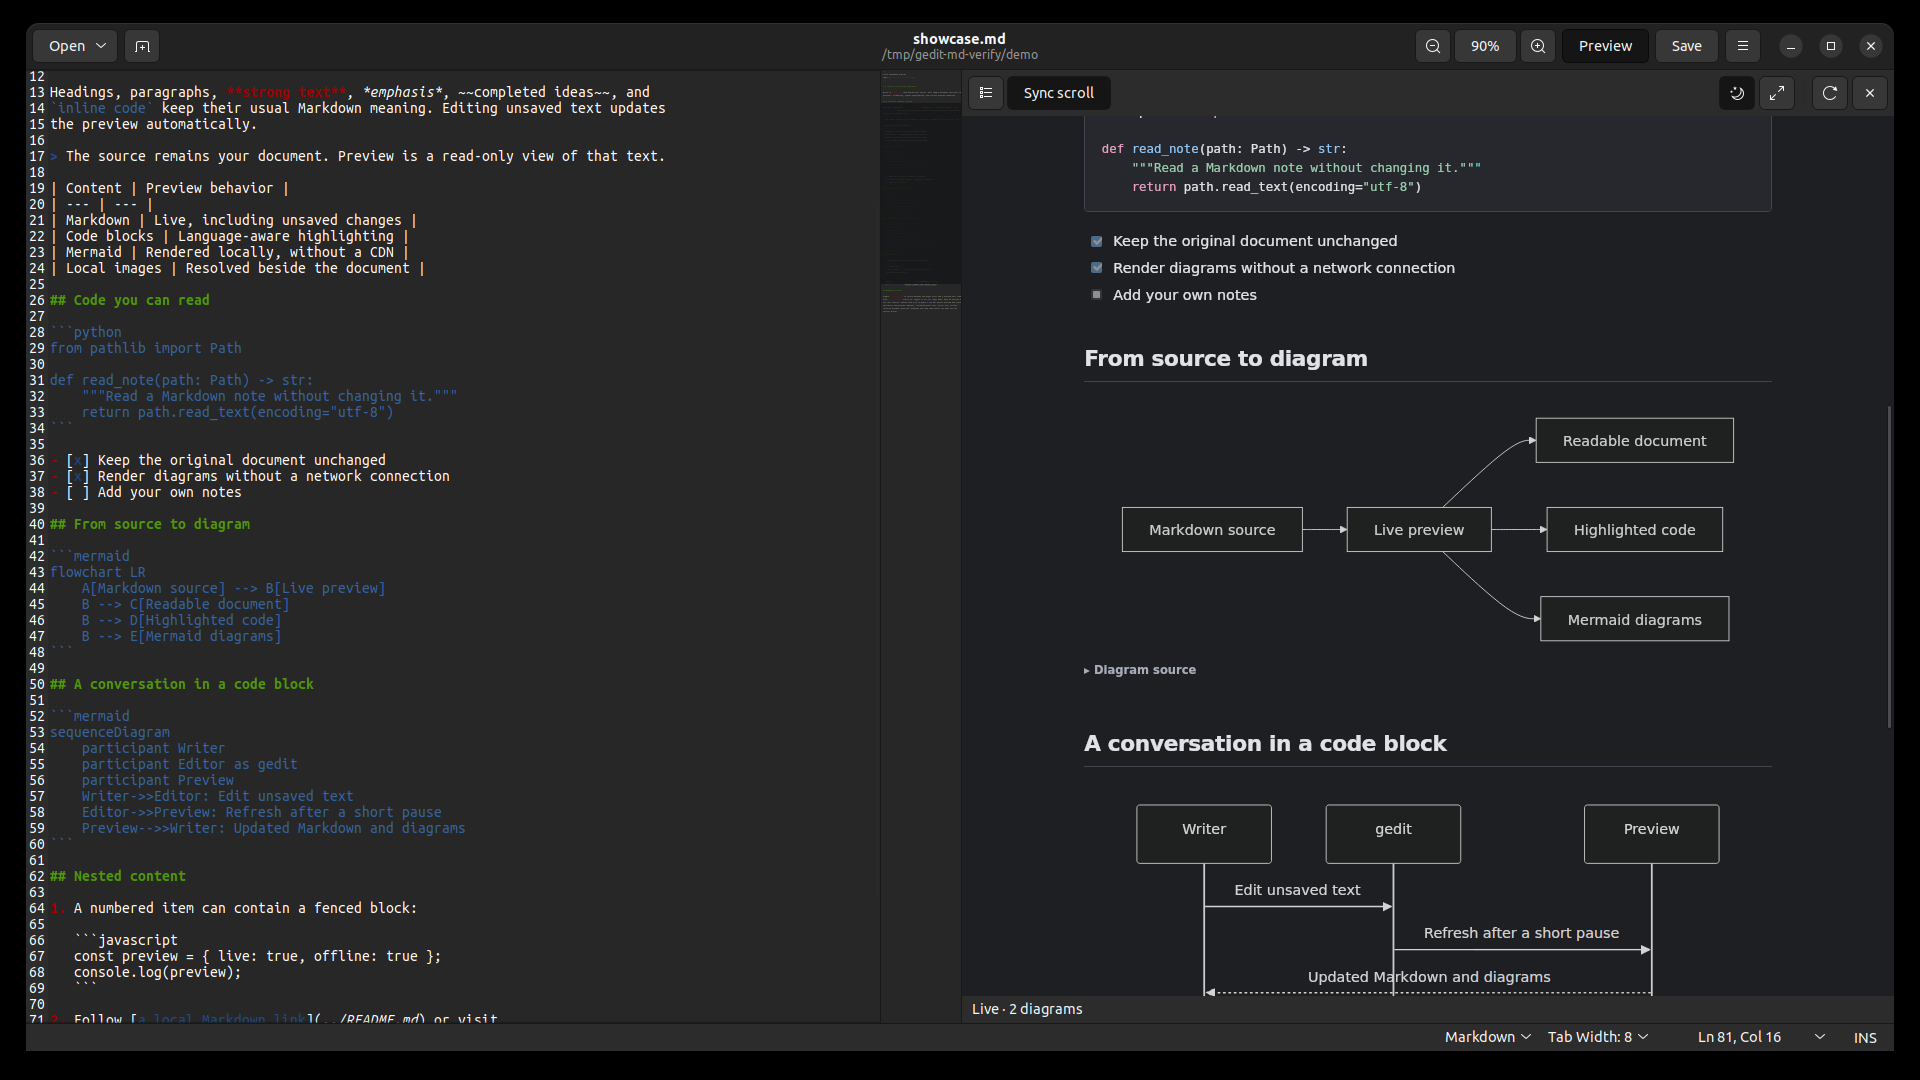
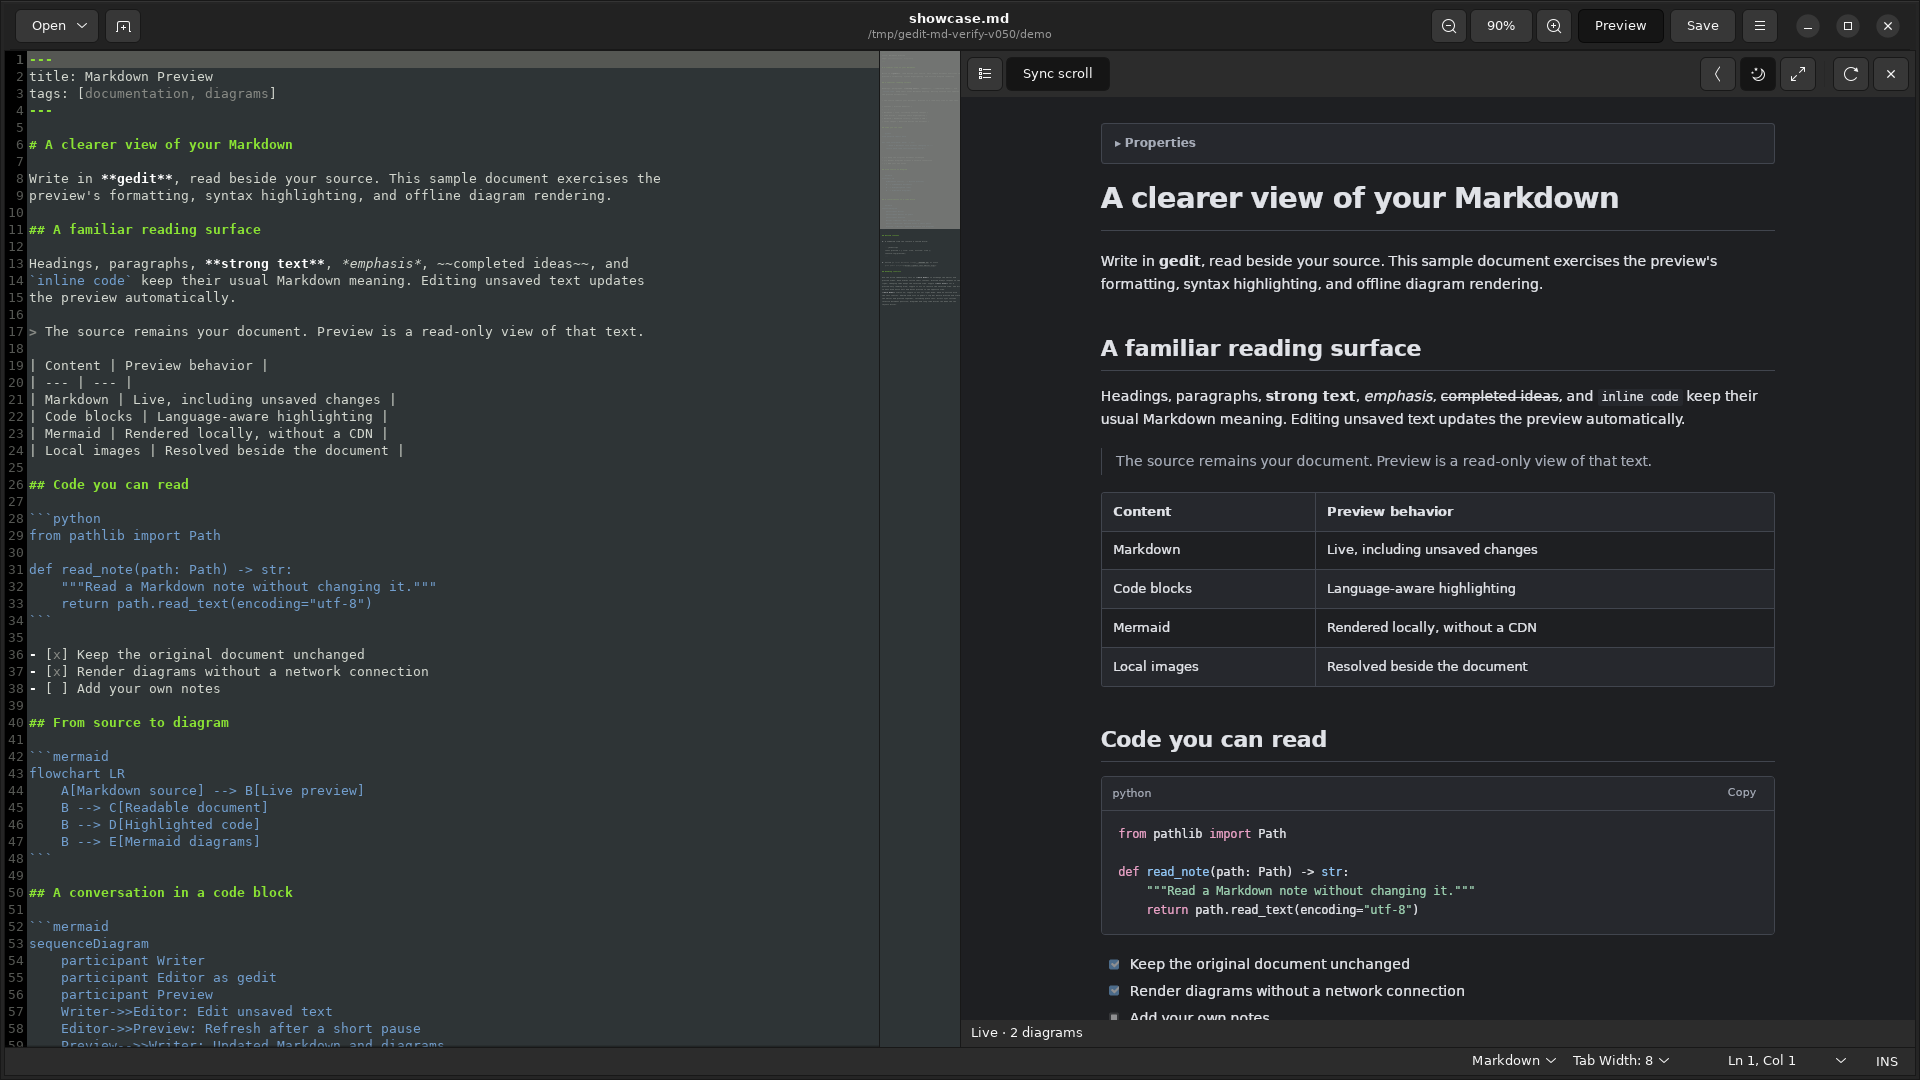
Add preview side switching (v0.5.0)

diff --git a/mdpreview/__init__.py b/mdpreview/__init__.py
@@ -63,7 +63,14 @@ class MarkdownPreviewWindow(GObject.Object, Gedit.WindowActivatable):
         self._editor_zoom_styles: dict[Any, Any] = {}
         self._font_handlers: list[tuple[Any, int]] = []
         self._editor_zoom_pending = 0
-        self._right_position: int | None = None
+        self._editor_width: int | None = None
+        self._split_gap = 0
+        self._split_side = "right"
+        self._layout_pending = 0
+        self._layout_settling = False
+        self._layout_positioned = False
+        self._updating_layout = False
+        self._side_control: Any = None
         self._full_control: Any = None
         self._dark_control: Any = None
         self._pending = 0
@@ -205,6 +212,7 @@ class MarkdownPreviewWindow(GObject.Object, Gedit.WindowActivatable):
     def open_preview(self) -> None:
         if self._box is not None:
             return
+        self._layout = self._split_side = "right"
         try:
             for filename in ("vendor.js", "preview.js", "preview.css"):
                 if not (ASSETS / filename).is_file():
@@ -265,6 +273,8 @@ class MarkdownPreviewWindow(GObject.Object, Gedit.WindowActivatable):
         if self._theme == "light":
             self._dark_control.get_image().set_from_icon_name("weather-clear-symbolic", Gtk.IconSize.MENU)
         toolbar.pack_end(self._dark_control, False, False, 0)
+        self._side_control = self._icon_button("go-previous-symbolic", "Move preview left", self._switch_side)
+        toolbar.pack_end(self._side_control, False, False, 0)
         self._box.pack_start(toolbar, False, False, 0)
         manager = self._webkit.UserContentManager()
         self._manager = manager
@@ -306,6 +316,7 @@ class MarkdownPreviewWindow(GObject.Object, Gedit.WindowActivatable):
             bottom.get_parent().show()
             self._full_control.set_active(False)
             self._full_control.set_sensitive(False)
+            self._side_control.set_sensitive(False)
             return
         self._outer = ancestor
         self._notebook = ancestor.get_child1()
@@ -323,24 +334,120 @@ class MarkdownPreviewWindow(GObject.Object, Gedit.WindowActivatable):
     def _apply_layout(self) -> None:
         if self._split is None:
             return
+        self._cancel_layout()
+        self._layout_settling = True
+        self._layout_positioned = False
         if self._layout == "full":
             self._notebook.set_no_show_all(True)
             self._notebook.hide()
             self._web.grab_focus()
+            self._layout_pending = GLib.timeout_add(150, self._finish_layout, self._split)
         else:
             self._notebook.set_no_show_all(self._notebook_no_show_all)
             self._notebook.set_visible(self._notebook_visible)
-            GLib.idle_add(self._position_split)
+            self._layout_pending = GLib.idle_add(self._position_split, self._split)
 
-    def _position_split(self) -> bool:
-        if self._split is not None and self._layout != "full":
-            allocation = self._split.get_allocation()
-            position = self._right_position if self._right_position is not None else max(180, allocation.width // 2)
-            self._split.set_position(position)
+    def _cancel_layout(self) -> None:
+        if self._layout_pending:
+            GLib.source_remove(self._layout_pending)
+            self._layout_pending = 0
+
+    def _position_split(self, split: Any) -> bool:
+        if split is not self._split:
+            return GLib.SOURCE_REMOVE
+        self._layout_pending = 0
+        width = split.get_allocated_width()
+        if width <= 1:
+            self._layout_pending = GLib.timeout_add(16, self._position_split, split)
+            return GLib.SOURCE_REMOVE
+        position = self._editor_width if self._editor_width is not None else max(180, width // 2)
+        if self._split_side == "left":
+            position = width - self._split_gap - position
+        split.set_position(position)
+        self._layout_positioned = True
+        self._layout_pending = GLib.timeout_add(150, self._finish_layout, split)
         return GLib.SOURCE_REMOVE
 
+    def _finish_layout(self, split: Any) -> bool:
+        if split is not self._split:
+            return GLib.SOURCE_REMOVE
+        self._layout_pending = 0
+        self._layout_settling = False
+        return GLib.SOURCE_REMOVE
+
+    def _capture_split(self) -> None:
+        # Pre-allocation clicks must not replace content widths with stale geometry.
+        if self._layout_settling and not self._layout_positioned:
+            return
+        if self._layout != "full" and self._notebook.get_mapped():
+            if abs(self._split.get_child1().get_allocated_width() - self._split.get_position()) > 2:
+                return
+            self._editor_width = self._notebook.get_allocated_width()
+            self._split_gap = max(0, self._split.get_allocated_width()
+                                  - self._editor_width - self._box.get_allocated_width())
+
+    def _pack_split(self, side: str) -> None:
+        """Reorder the same widgets, restoring their parents if packing fails."""
+        children = (self._split.get_child1(), self._split.get_child2())
+        desired = (self._box, self._notebook) if side == "left" else (self._notebook, self._box)
+        if children == desired:
+            return
+        try:
+            for child in children:
+                self._split.remove(child)
+            self._split.pack1(desired[0], True, False)
+            self._split.pack2(desired[1], True, False)
+        except Exception:
+            for child in (self._split.get_child1(), self._split.get_child2()):
+                if child is not None:
+                    self._split.remove(child)
+            self._split.pack1(children[0], True, False)
+            self._split.pack2(children[1], True, False)
+            raise
+
+    def _update_layout_controls(self) -> None:
+        self._updating_layout = True
+        try:
+            full = self._layout == "full"
+            self._full_control.set_active(full)
+            self._full_control.get_image().set_from_icon_name(
+                "view-restore-symbolic" if full else "view-fullscreen-symbolic", Gtk.IconSize.MENU)
+            destination = "left" if self._split_side == "right" else "right"
+            label = "Move preview " + destination
+            self._side_control.set_tooltip_text(label)
+            self._side_control.get_accessible().set_name(label)
+            self._side_control.get_image().set_from_icon_name(
+                "go-previous-symbolic" if destination == "left" else "go-next-symbolic", Gtk.IconSize.MENU)
+        finally:
+            self._updating_layout = False
+
+    def _set_layout(self, layout: str) -> None:
+        if self._split is None:
+            return
+        self._capture_split()
+        self._cancel_layout()
+        self._layout_settling = True
+        self._layout_positioned = False
+        if self._scroll_pending:
+            GLib.source_remove(self._scroll_pending)
+            self._scroll_pending = 0
+        previous = (self._layout, self._split_side)
+        try:
+            if layout != "full":
+                self._pack_split(layout)
+                self._split_side = layout
+            self._layout = layout
+        except Exception:
+            LOGGER.exception("Could not move Markdown Preview; restored the previous split")
+            self._layout, self._split_side = previous
+        self._update_layout_controls()
+        self._apply_layout()
+
+    def _switch_side(self, _button: Any) -> None:
+        self._set_layout("left" if self._split_side == "right" else "right")
+
     def close_preview(self) -> None:
-        for attr in ("_pending", "_scroll_pending", "_scroll_unlock"):
+        for attr in ("_pending", "_scroll_pending", "_scroll_unlock", "_layout_pending"):
             source = getattr(self, attr, 0)
             if source:
                 GLib.source_remove(source)
@@ -360,7 +467,9 @@ class MarkdownPreviewWindow(GObject.Object, Gedit.WindowActivatable):
                     parent.remove(self._box)
                 self._box.destroy()
         self._web = self._box = self._split = self._outer = self._notebook = self._manager = None
-        self._full_control = self._dark_control = None
+        self._full_control = self._dark_control = self._side_control = None
+        self._layout_settling = False
+        self._layout_positioned = False
         self._page_ready = False
         self._fallback = False
         self._syncing = False
@@ -493,7 +602,7 @@ class MarkdownPreviewWindow(GObject.Object, Gedit.WindowActivatable):
                 diagrams = int(message.get("diagrams", 0))
                 errors = int(message.get("errors", 0))
                 self._status.set_text(f"Live · {diagrams} diagram{'s' if diagrams != 1 else ''}" + (f" · {errors} diagram error(s)" if errors else ""))
-            elif kind == "scroll" and self._sync_enabled and self._adjustment is not None:
+            elif kind == "scroll" and self._sync_enabled and not self._layout_settling and self._adjustment is not None:
                 ratio = float(message["ratio"])
                 if 0 <= ratio <= 1:
                     self._syncing = True
@@ -509,7 +618,8 @@ class MarkdownPreviewWindow(GObject.Object, Gedit.WindowActivatable):
             LOGGER.warning("Ignored malformed preview message")
 
     def _source_scrolled(self, _adjustment: Any) -> None:
-        if self._layout != "full" and self._sync_enabled and not self._syncing and not self._scroll_pending:
+        if (self._layout != "full" and not self._layout_settling and self._sync_enabled
+                and not self._syncing and not self._scroll_pending):
             self._scroll_pending = GLib.timeout_add(60, self._send_scroll)
 
     def _send_scroll(self) -> bool:
@@ -533,12 +643,8 @@ class MarkdownPreviewWindow(GObject.Object, Gedit.WindowActivatable):
         self._schedule_render()
 
     def _change_layout(self, button: Any) -> None:
-        if self._split is not None and self._layout == "right":
-            self._right_position = self._split.get_position()
-        self._layout = "full" if button.get_active() else "right"
-        icon = "view-restore-symbolic" if button.get_active() else "view-fullscreen-symbolic"
-        button.get_image().set_from_icon_name(icon, Gtk.IconSize.MENU)
-        self._apply_layout()
+        if not self._updating_layout:
+            self._set_layout("full" if button.get_active() else self._split_side)
 
     def _change_outline(self, button: Any) -> None:
         self._outline_enabled = button.get_active()

diff --git a/README.md b/README.md
@@ -15,9 +15,13 @@ Node.js runtime, local server, network connection, or account.
 | --- | --- |
 | ![Markdown preview with the editor on the left and the dark preview pane on the right, zoom set to 90%](assets/demo/markdown-preview.png) | ![Mermaid flowchart and sequence diagram rendered in the preview](assets/demo/mermaid-preview.png) |
 
-| Light mode | Full view | Sync scroll (off) |
-| --- | --- | --- |
-| ![The same document rendered in light mode](assets/demo/light-mode.png) | ![Preview-only reading mode inside the same gedit window](assets/demo/full-view.png) | ![Sync scroll disabled: the editor shows the top of the document while the preview stays further down](assets/demo/sync-scroll.png) |
+| Preview moved to the left | Light mode |
+| --- | --- |
+| ![The preview pane swapped to the left of the editor, with a Mermaid diagram rendered](assets/demo/preview-left.png) | ![The same document rendered in light mode](assets/demo/light-mode.png) |
+
+| Full view | Sync scroll (off) |
+| --- | --- |
+| ![Preview-only reading mode inside the same gedit window](assets/demo/full-view.png) | ![Sync scroll disabled: the editor shows a different part of the document while the preview stays where it was](assets/demo/sync-scroll.png) |
 
 All screenshots are real captures of the plugin running in gedit 41 on
 Ubuntu 22.04, using the bundled [examples/showcase.md](examples/showcase.md).
@@ -27,10 +31,9 @@ Ubuntu 22.04, using the bundled [examples/showcase.md](examples/showcase.md).
 | Environment | Status |
 | --- | --- |
 | Ubuntu 22.04, gedit 41, GTK 3, WebKit2 4.0 | Tested by the maintainer on real hardware |
-| Ubuntu 24.04, gedit 46, GTK 3, WebKit2 4.1 | Maintainer-tested |
+| Ubuntu 24.04, gedit 46, GTK 3, WebKit2 4.1 | Tested by the maintainer |
 | Ubuntu 26.04, other distributions, other gedit versions | Not tested |
 | gedit 48.2 and later | Unsupported: these versions removed Python plugin support |
-| GNOME Text Editor | Different application; cannot load gedit plugins |
 
 The plugin accepts WebKit2 4.1 or 4.0 introspection bindings, so it follows the
 distribution's WebKit packages. Older engine versions than the ones listed above
@@ -82,10 +85,16 @@ update an existing installation created by this installer.
   editor tabs and an open preview together, from 60–200%. Click the percentage
   to restore 100%: the configured editor font size and normal preview scale.
   New tabs and reopened previews inherit the current percentage.
-- **Full View icon toggle:** off uses the Right split, which is the default;
+- **Move preview left/right button:** the arrow immediately left of Dark Mode
+  points toward the preview's destination. Click to exchange the preview and
+  editor sides; their widths follow the content, subject to native minimum sizes.
+  Each preview opening starts on the right. Switching tabs keeps the current side.
+  In Full View, the arrow exits Full and moves preview to the opposite side.
+- **Full View icon toggle:** off uses the selected left or right split;
   drag the divider to resize. On hides the editor and uses the complete editing
   area for preview inside the same window. Toggle off, or close preview, to
-  restore the editor. The icon changes between expand and restore. Other gedit
+  restore the editor on its previous side. Every preview reopening starts with
+  Full View off. The icon changes between expand and restore. Other gedit
   panels retain their original layout.
 - **Dark Mode icon toggle:** on by default. On uses dark mode and shows a moon;
   off uses light mode and shows a sun. Preview follows this toggle independently
@@ -99,7 +108,8 @@ update an existing installation created by this installer.
 - **Copy:** copy a fenced code block using the native clipboard.
 
 Preview controls occupy one row. Outline and scroll sync start at the left
-edge. The right group is Dark Mode, Full View, a separator, Refresh, and Close.
+edge. The right group is Move preview left/right, Dark Mode, Full View, a
+separator, Refresh, and Close. The arrow is an ordinary button, not a toggle.
 The preview toolbar has no title or dropdowns; the top-bar Preview button beside
 Save remains. The native controls establish a minimum pane width; the split
 respects that width instead of clipping the controls.
@@ -110,10 +120,11 @@ current percentage. Closing preview keeps editor zoom; disabling the plugin
 removes its header controls and restores native editor font sizing.
 
 Preview includes unsaved changes and follows the active editor tab. Controls are
-remembered while the window's plugin instance remains active, not across gedit
-restarts. A new document with the same basename may retain the current reading
-position. Scroll synchronization is proportional, so large diagrams can make the
-source and preview positions differ.
+remembered while the window's plugin instance remains active, except placement
+and Full View reset to the right split whenever preview opens. No choices are
+saved across gedit restarts. A new document with the same basename may retain the
+current reading position. Scroll synchronization is proportional, so large
+diagrams can make the source and preview positions differ.
 
 Rich preview adds WebKit memory and CPU costs while it is open. Closing the pane
 destroys its view; loaded engine libraries can remain mapped in the gedit process.
@@ -164,13 +175,16 @@ python3 -m unittest discover -s tests -p 'test_*.py' -v
 node --check mdpreview/assets/preview.js
 ```
 
+The plugin was verified on real gedit 41 and 46 runtimes during development,
+including live rendering of Markdown and Mermaid content and the
+install/update/uninstall flow.
+
 The GTK integration validates gedit's notebook hierarchy before adding a
-plugin-owned split. If an unexpected layout is encountered, it falls back to the
-public bottom-panel API. The plugin was verified on real gedit 41 and 46
-runtimes during development, including live rendering of Markdown and Mermaid
-content and the install/update/uninstall flow. A future gedit migration requires
-explicit compatibility work rather than silently assuming the Python plugin will
-continue to load.
+plugin-owned split. If an unexpected layout is encountered, it falls back to
+the public bottom-panel API, where side switching and Full View are disabled.
+The targeted 41/46 panel APIs were checked against their upstream source. A
+future gedit migration requires explicit compatibility work rather than
+silently assuming the Python plugin will continue to load.
 
 ## License
 

diff --git a/examples/showcase.md b/examples/showcase.md
@@ -73,8 +73,12 @@ sequenceDiagram
 
 ## Reading controls
 
-Toggle **Full View** to switch between the Right split and a preview-only reading
-area. **Dark Mode** starts on; toggle it off for light mode. Show an outline with
+Use the arrow immediately left of **Dark Mode** to exchange the editor and
+preview sides. Pane widths follow their content. Preview always reopens on the
+right; changing tabs keeps the selected side. Toggle **Full View** for a
+preview-only reading area; toggle it off to restore the selected side. The arrow
+in Full View exits Full and moves preview to the opposite side.
+**Dark Mode** starts on; toggle it off for light mode. Show an outline with
 the left control. Shared zoom sits in gedit's top bar before Preview and scales
 the editor and preview together, including plain text. Scroll sync follows
 relative document position; diagrams and long code blocks can make the two
